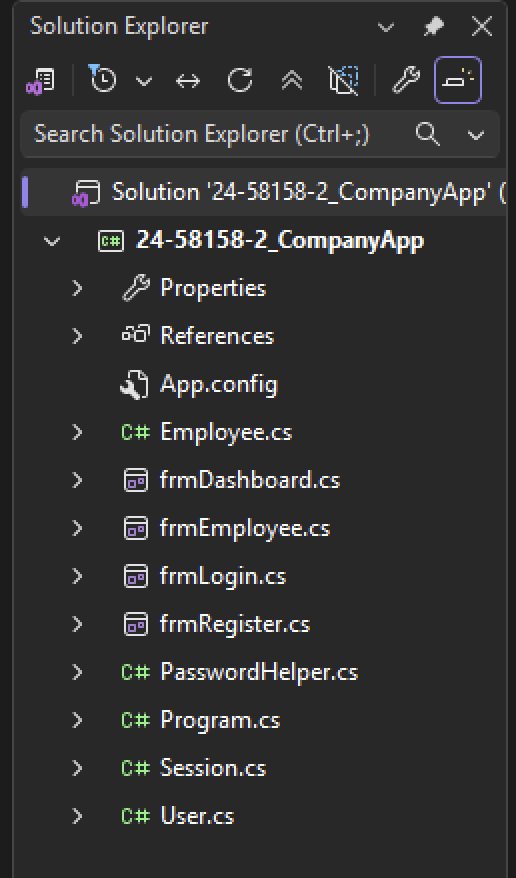
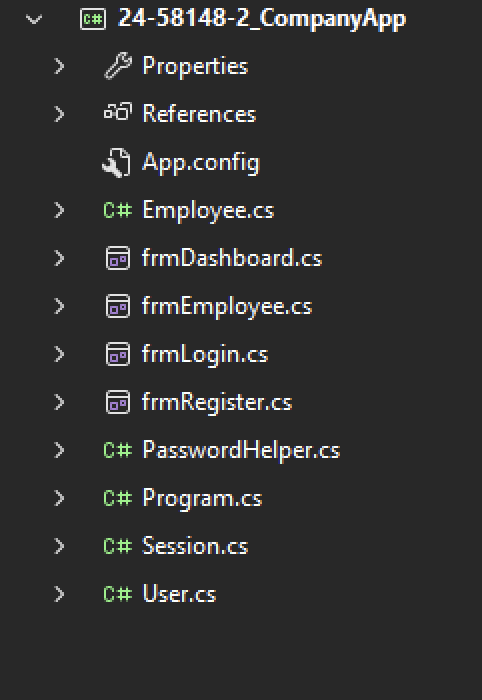
v1.3
Updated some file names and fixed a major typo across the project.

diff --git a/24-58148-2_CompanyApp/Properties/AssemblyInfo.cs b/24-58148-2_CompanyApp/Properties/AssemblyInfo.cs
@@ -5,11 +5,11 @@ using System.Runtime.InteropServices;
 // General Information about an assembly is controlled through the following
 // set of attributes. Change these attribute values to modify the information
 // associated with an assembly.
-[assembly: AssemblyTitle("24-58158-2_CompanyApp")]
+[assembly: AssemblyTitle("24-58148-2_CompanyApp")]
 [assembly: AssemblyDescription("Merged login, registration, dashboard and employee management application")]
 [assembly: AssemblyConfiguration("")]
 [assembly: AssemblyCompany("Hewlett-Packard")]
-[assembly: AssemblyProduct("24-58158-2_CompanyApp")]
+[assembly: AssemblyProduct("24-58148-2_CompanyApp")]
 [assembly: AssemblyCopyright("Copyright © Hewlett-Packard 2019")]
 [assembly: AssemblyTrademark("")]
 [assembly: AssemblyCulture("")]
